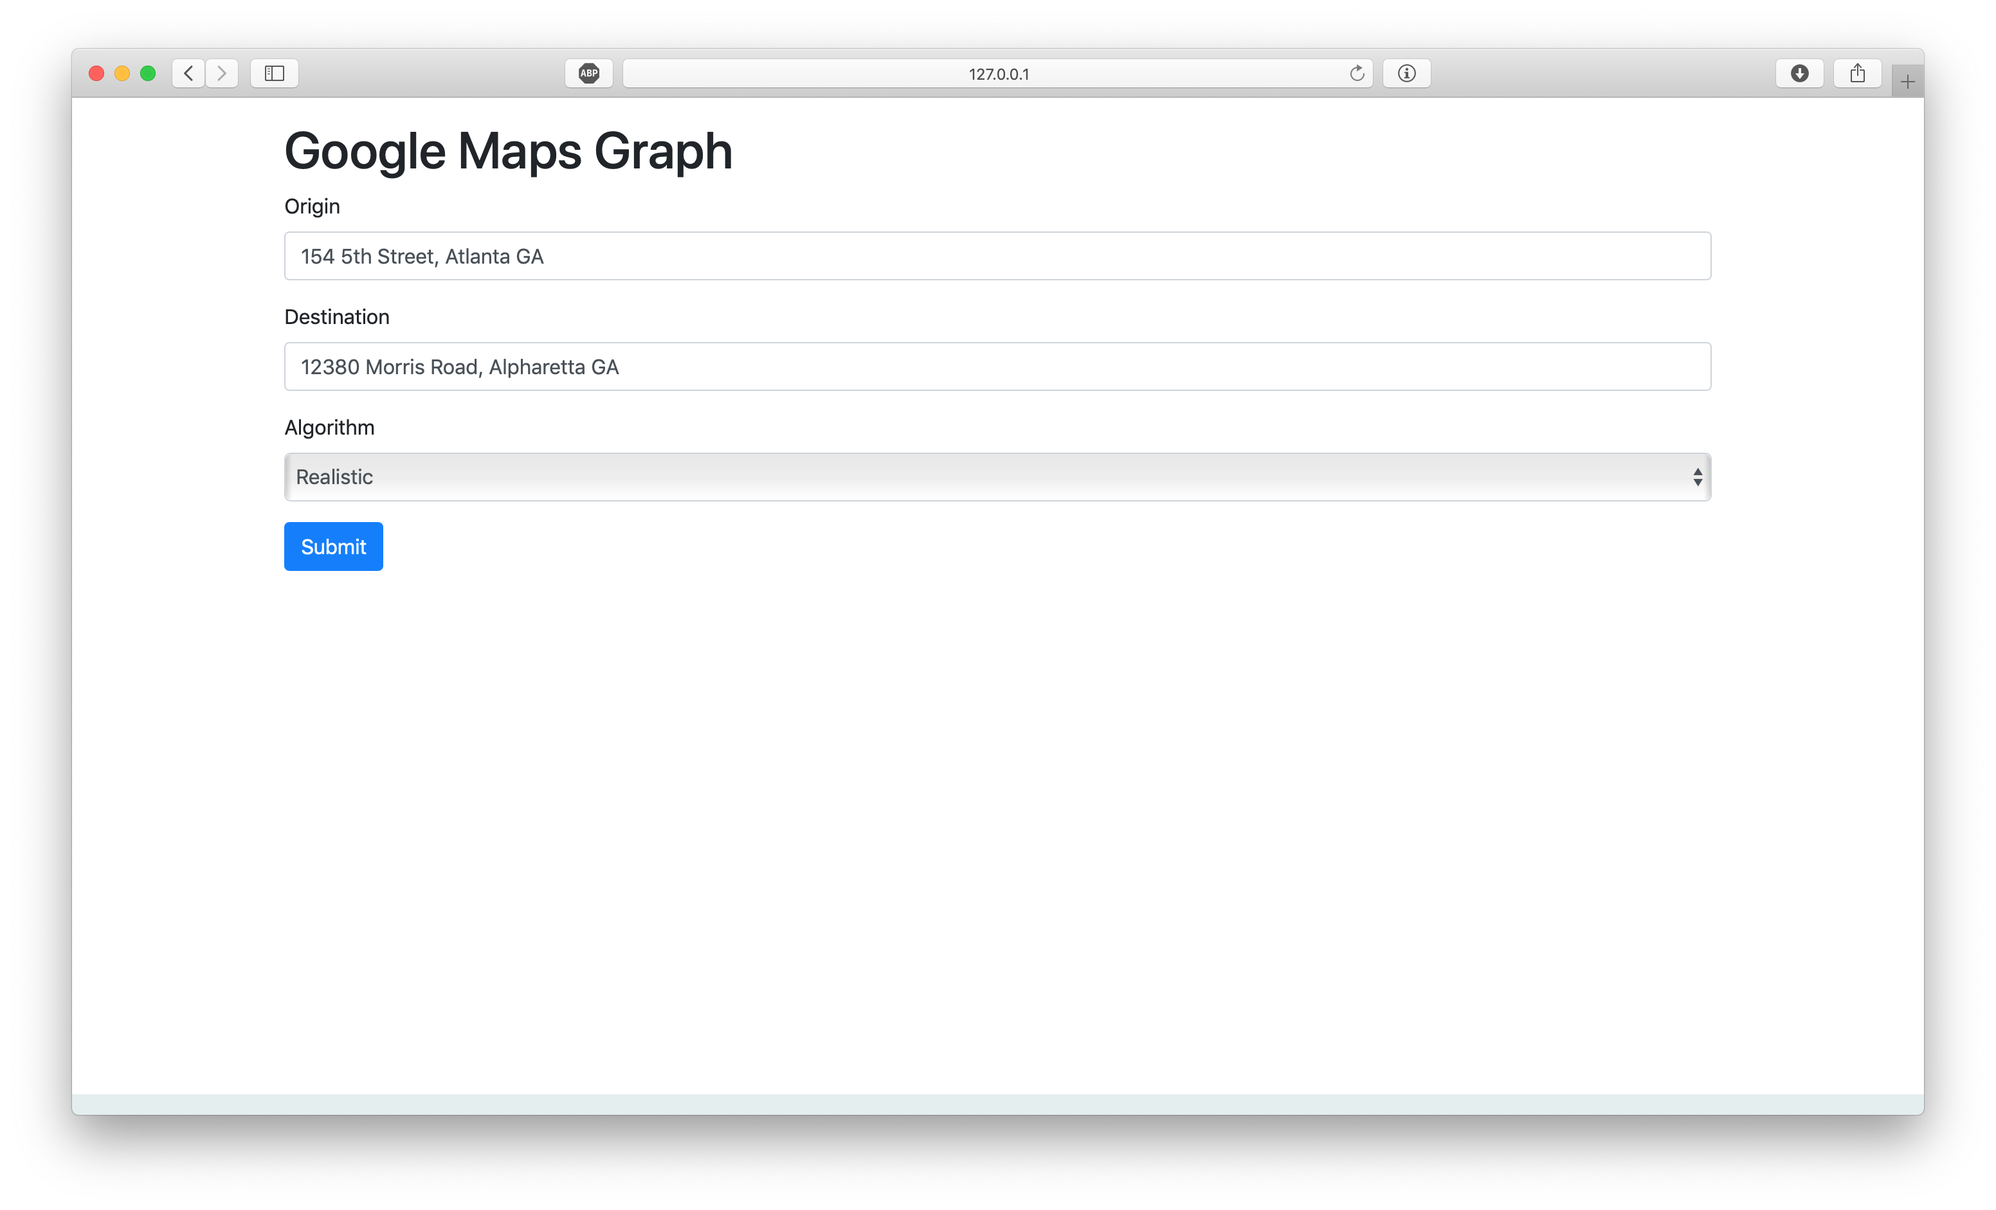
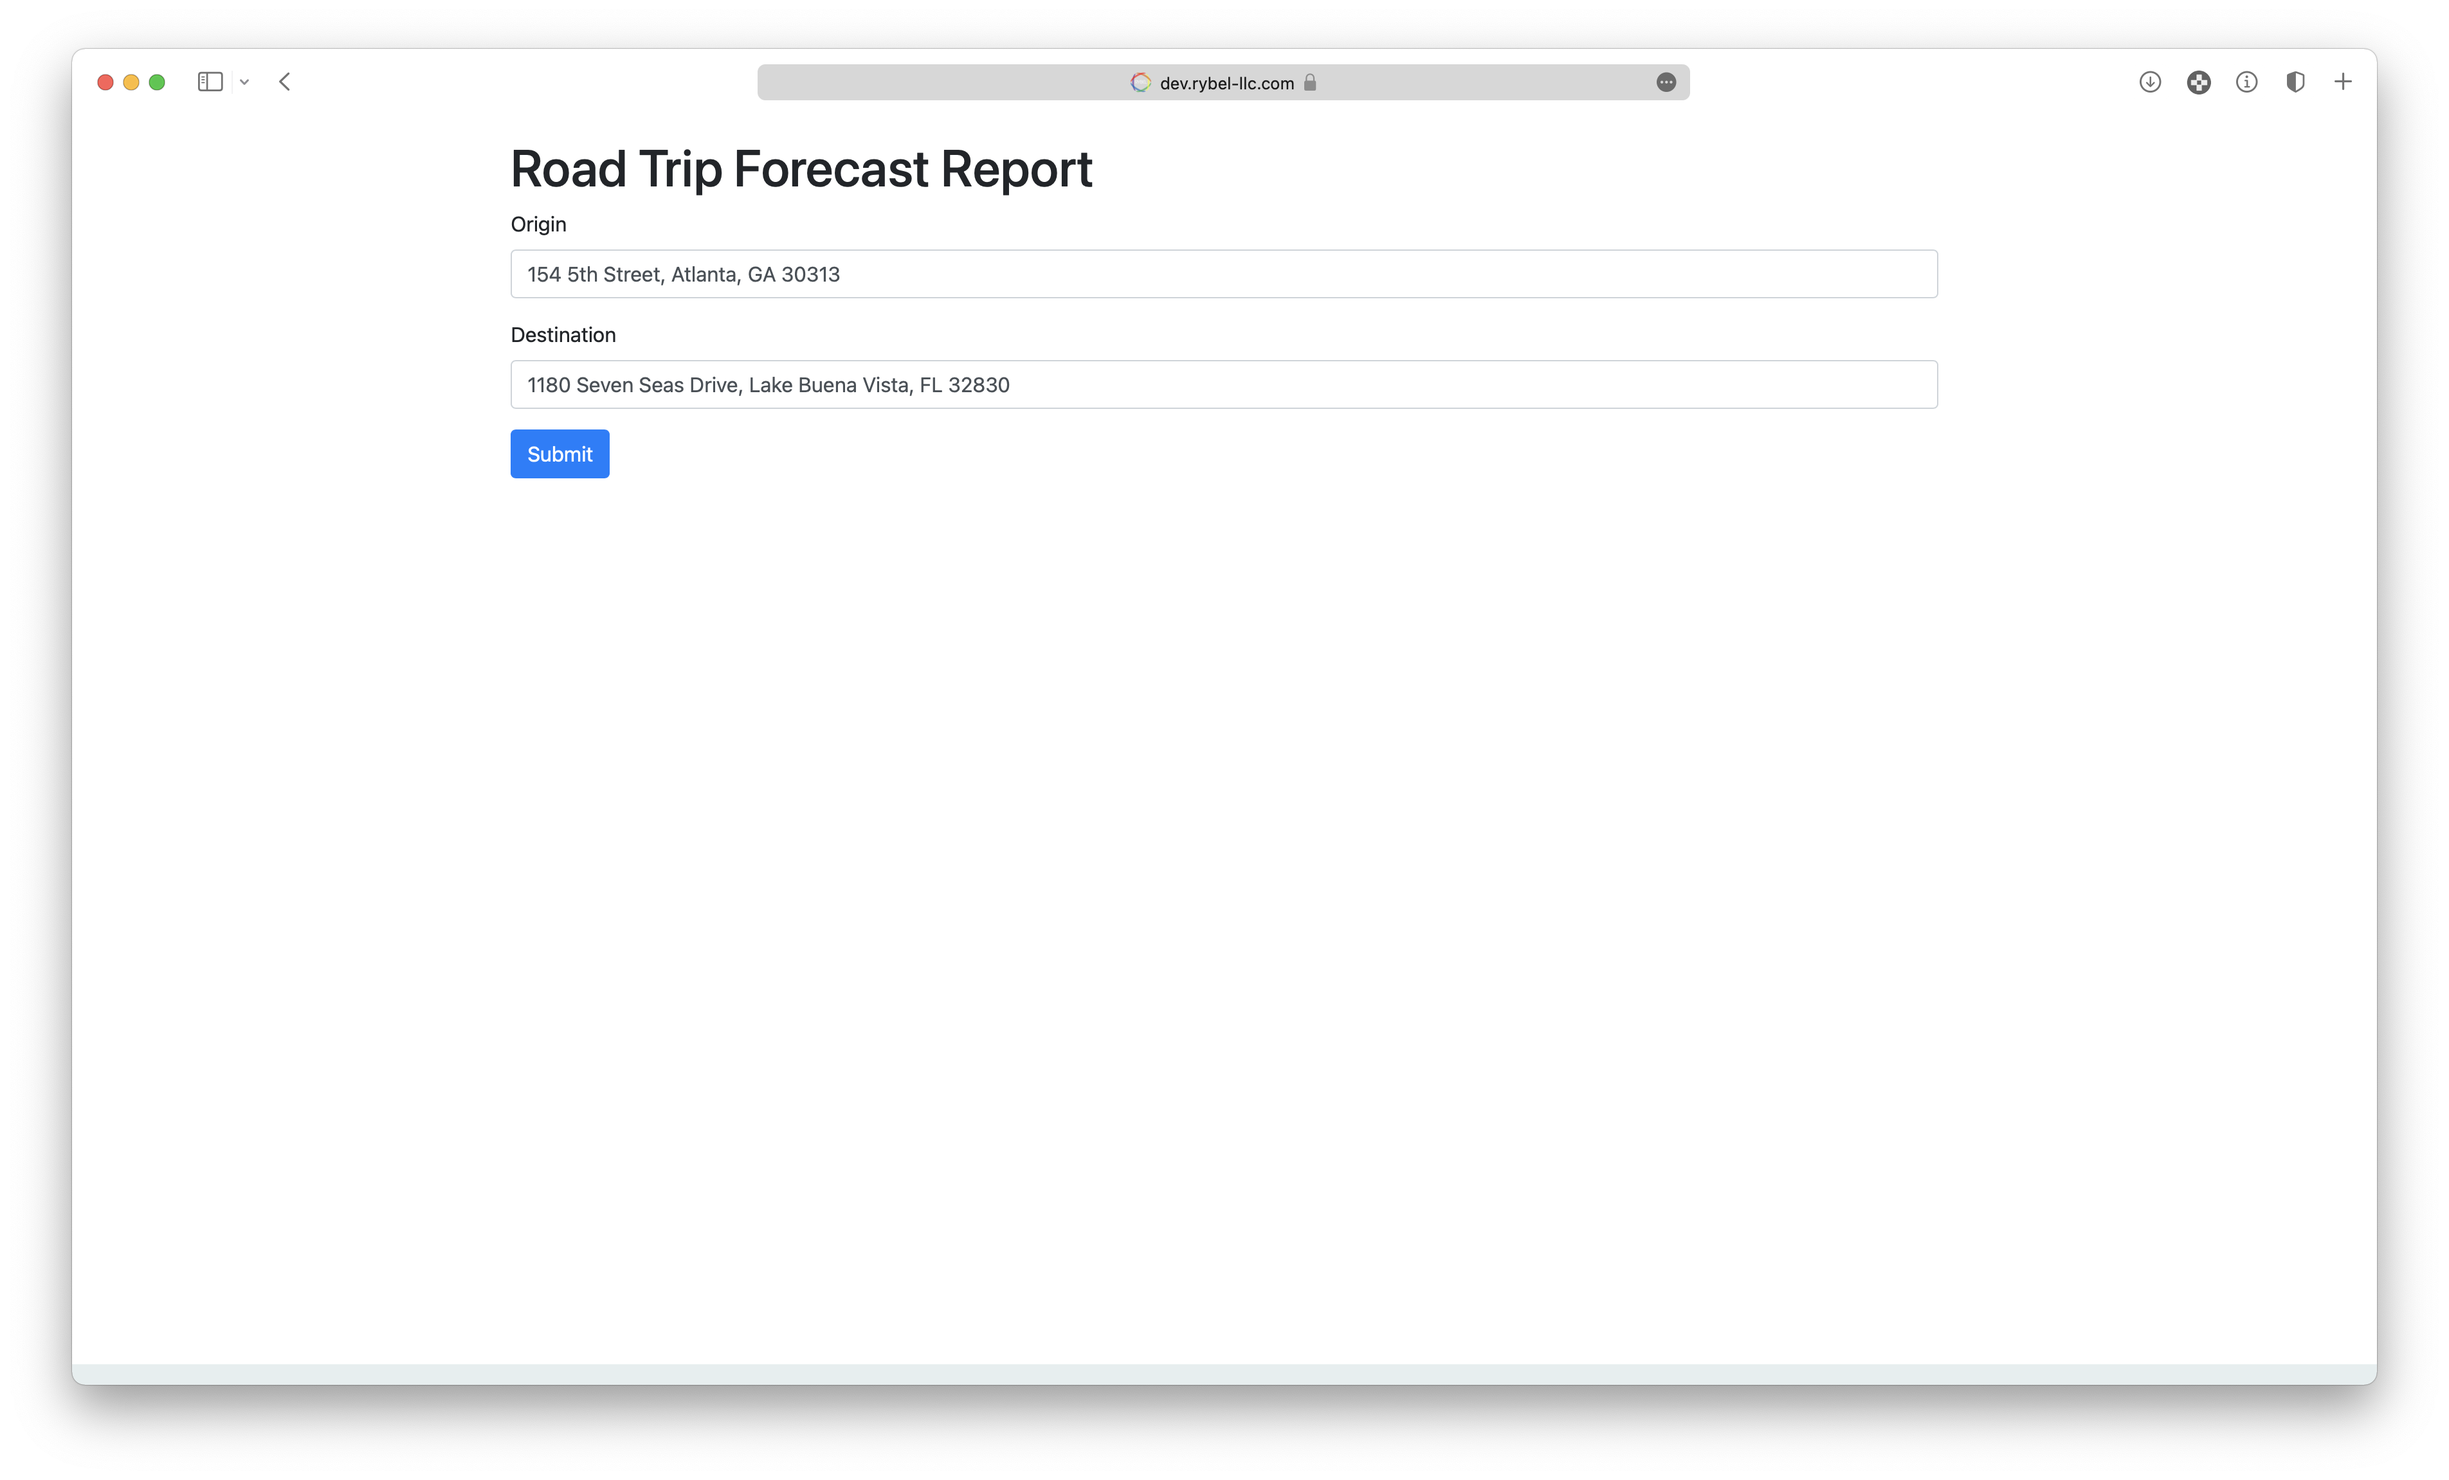
Update screenshots

diff --git a/index.html b/index.html
@@ -7,7 +7,7 @@
     }
     </style>
     <link rel="stylesheet" href="https://stackpath.bootstrapcdn.com/bootstrap/4.3.1/css/bootstrap.min.css" integrity="sha384-ggOyR0iXCbMQv3Xipma34MD+dH/1fQ784/j6cY/iJTQUOhcWr7x9JvoRxT2MZw1T" crossorigin="anonymous">
-    <title>Google Maps Graph</title>
+    <title>Road Trip Report</title>
     <script src="https://code.jquery.com/jquery-3.3.1.slim.min.js"></script>
     <script src="https://cdnjs.cloudflare.com/ajax/libs/popper.js/1.14.6/umd/popper.min.js"></script>
     <script src="https://stackpath.bootstrapcdn.com/bootstrap/4.2.1/js/bootstrap.min.js"></script>
@@ -28,7 +28,7 @@
 </head>
 <body>
     <div class="container pt-3">
-        <h1>Google Maps Graph</h1>
+        <h1>Road Trip Forecast Report</h1>
         <form action="api.php" method="post" id="form">
             <div class="form-group">
                 <label for="exampleInputEmail1">Origin</label>
